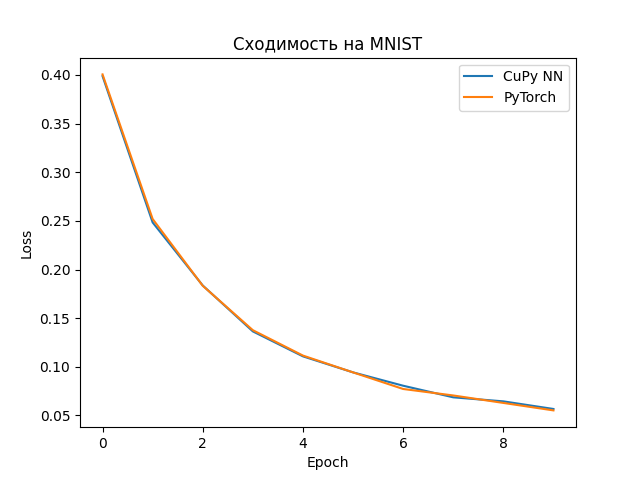
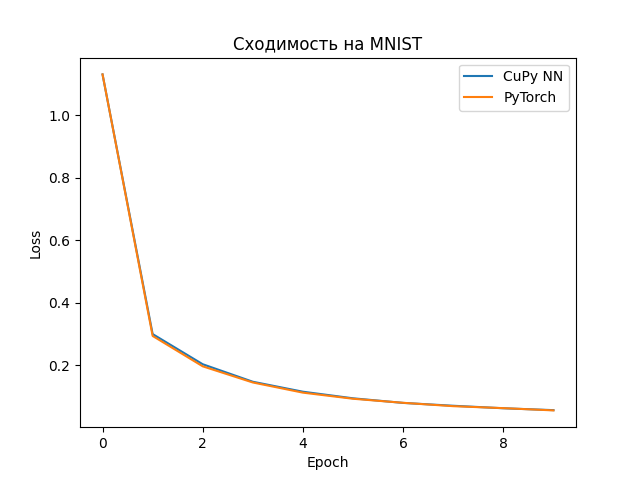
Снижен расход видеопамяти в early_stop и predict. Доработано логирование в train(). Добавлен маркерный класс MetaLayer. Исправлены небольшие баги.

diff --git a/neuralnet/core_gpu.py b/neuralnet/core_gpu.py
@@ -1,6 +1,6 @@
-from neuralnet.Loaders import AsyncCupyDataLoader
 from neuralnet.Features import *
-from neuralnet.Layers import Dense, Conv2D, MultiHead, ConvAttention, MultiConvAttentionWO
+from neuralnet.Layers import Dense, Conv2D, MultiHead, ConvAttention, MultiConvAttentionWO, MetaLayer
+from neuralnet.Loaders import AsyncCupyDataLoader
 from neuralnet.Optimizers import SGD
 
 
@@ -22,7 +22,7 @@ class NeuralNetwork:
         self.loss_func = loss_func
         self.optimizer = optimizer
         self.stream_load = cp.cuda.Stream(non_blocking=True)
-        self.losses = []
+        self.losses = {"train": [], "test": []}
 
         prev_layer = None
         first_config = layer_configs[0]
@@ -41,7 +41,7 @@ class NeuralNetwork:
                         raise ValueError(
                             "Если после Dense следует Conv2d, то Conv2d нужно передать нужную форму тензора")
 
-            if layer_cls in [MultiHead, ConvAttention, MultiConvAttentionWO]:
+            if issubclass(layer_cls, MetaLayer):
                 config["nn_class"] = NeuralNetwork
                 config["optimizer"] = self.optimizer
 
@@ -63,7 +63,7 @@ class NeuralNetwork:
             self.layer_list.append(layer)
             prev_layer = layer
 
-    def train(self, train_loader, epochs=30, early_stop=0, x_test=None, y_test=None, min_delta=1e-3,
+    def train(self, train_loader, epochs=30, early_stop=0, test_loader=None, min_delta=1e-3,
               logs=True, early_target="loss_func"):
         """
         Обучение модели.
@@ -73,8 +73,7 @@ class NeuralNetwork:
             epochs (int, optional): число эпох обучения.
             early_stop (int, optional): количество эпох без улучшения,
                 после которых обучение останавливается. Если 0 — отключено.
-            x_test (np.ndarray, optional): валидационные данные X для ранней остановки.
-            y_test (np.ndarray | list, optional): валидационные метки.
+            test_loader (iterable): генератор тестовых батчей (x, y).
             min_delta (float, optional): минимальное улучшение метрики для сброса patience.
             logs (bool, optional): печатать ли прогресс по эпохам.
             early_target (str | callable | list, optional):
@@ -86,20 +85,11 @@ class NeuralNetwork:
             иначе None.
         """
 
-        if early_stop and (x_test is None or y_test is None):
-            raise ValueError("Для ранней остановки нужны x_test и y_test")
+        if early_stop and (test_loader is None):
+            raise ValueError("Для ранней остановки нужен test_loader")
 
         if early_target == "loss_func":
             early_target = self.loss_func
-
-        if x_test is not None:
-
-            x_test = AsyncCupyDataLoader(np.asarray(x_test, dtype=cp.float32), batch_size=train_loader.batch_size,
-                                         shuffle=False, stream=train_loader.stream)
-            if isinstance(early_target, list):
-                y_test = [cp.asarray(arr, dtype=cp.float32) for arr in y_test]
-            else:
-                y_test = cp.asarray(y_test, dtype=cp.float32)
 
         best_loss = float('inf')
         min_delta = cp.asarray(min_delta, dtype=cp.float32)
@@ -109,32 +99,58 @@ class NeuralNetwork:
         val_loss = best_loss
 
         for epoch in range(1, epochs + 1):
+            losses = []
+            total_samples = 0
             for bx, by in train_loader:
+
                 y_hat = self.forward(bx, train=True)
 
+                total_samples += bx.shape[0]
+
                 if isinstance(self.loss_func, list):
-                    loss_grad = []
+                    loss_grads = []
+                    head_loss = []
                     for i, loss_func in enumerate(self.loss_func):
-                        loss = loss_func.grad(y_hat[i], by[i])
-                        loss_grad.append(loss)
+                        loss_grad = loss_func.grad(y_hat[i], by[i])
+                        loss_grads.append(loss_grad)
+                        if logs:
+                            head_loss.append(loss_func(y_hat[i], by[i]) * cp.asarray(by[i].shape[0], cp.float32))
+
+                    if logs:
+                        losses.append(head_loss)
                 else:
-                    loss_grad = self.loss_func.grad(y_hat, by)
-                self.backward(loss_grad)
+                    loss_grads = self.loss_func.grad(y_hat, by)
+                    if logs:
+                        losses.append(self.loss_func(y_hat, by) * cp.asarray(by.shape[0], cp.float32))
+
+                self.backward(loss_grads)
+
             # Early stopping — после всей эпохи
             if early_stop:
-                y_val_pred = self.predict(x_test, numpy=False)
+                total_test_samples = 0
+                test_losses = []
+                for tbx, tby in test_loader:
+                    y_val_pred = self.forward(tbx, train=False)
 
-                # поддержка single, list
-                if isinstance(early_target, list):
-                    val_losses = []
-                    for i, loss_func in enumerate(early_target):
-                        val_losses.append(loss_func(y_val_pred[i], y_test[i]))
-                    val_loss = sum(val_losses)
-                else:
-                    val_loss = early_target(y_val_pred, y_test)
+                    total_test_samples += tbx.shape[0]
 
-                del y_val_pred
-                self.losses.append(val_loss)
+                    # поддержка single, list
+                    if isinstance(early_target, list):
+                        head_test_loss = []
+                        for i, loss_func in enumerate(early_target):
+                            test_loss = loss_func(y_val_pred[i], tby[i])
+                            if logs:
+                                head_test_loss.append(test_loss * cp.asarray(tby[i].shape[0], cp.float32))
+
+                        if logs:
+                            test_losses.append(head_test_loss)
+                    else:
+                        test_loss = early_target(y_val_pred, tby)
+                        if logs:
+                            test_losses.append(test_loss * cp.asarray(tby.shape[0], cp.float32))
+
+                test_epoch_loss = cp.asarray(test_losses).sum(axis=0).get() / total_test_samples
+                val_loss = test_epoch_loss.mean()  # Усредняем, чтобы можно было сравнить с другими эпохами
 
                 if cp.isnan(val_loss):
                     print(f"Model unstable at epoch {epoch}. Best val loss: {best_loss:.6f} at epoch {best_epoch}")
@@ -153,7 +169,11 @@ class NeuralNetwork:
                     return best_model
 
             if logs:
-                print(f"Epoch: {epoch}, Metric: {val_loss:.6f}, Best_val_metric: {best_loss:.6f}")
+                if early_stop:
+                    self.losses["test"].append(test_epoch_loss)
+                self.losses["train"].append((cp.asarray(losses).sum(axis=0).get() / total_samples))
+                print(f"Epoch: {epoch}, Loss: {self.losses["train"][-1].mean():.6f}, Test_Metric: {val_loss:.6f},"
+                      f" Best_test_metric: {best_loss:.6f}")
 
         return best_model
 
@@ -180,18 +200,21 @@ class NeuralNetwork:
             y_hat = self.forward(xb, train=False)
             if isinstance(self.loss_func, list):
                 for i, z in enumerate(y_hat):
+                    if numpy:
+                        z = z.get()
                     predictions[i].append(z)
             else:
+                if numpy:
+                    y_hat = y_hat.get()
                 predictions.append(y_hat)
 
         if isinstance(self.loss_func, list):
             predictions = [
-                cp.concatenate(p, axis=0).get() if numpy else cp.concatenate(p, axis=0)
+                np.concatenate(p, axis=0) if numpy else cp.concatenate(p, axis=0)
                 for p in predictions
             ]
         else:
-            predictions = cp.concatenate(predictions, axis=0)
-            predictions = predictions.get() if numpy else predictions
+            predictions = np.concatenate(predictions, axis=0) if numpy else cp.concatenate(predictions, axis=0)
         return predictions
 
     def forward(self, x, train=False):

diff --git a/examples/compare_pytorch.py b/examples/compare_pytorch.py
@@ -58,21 +58,19 @@ def check_vram():
 def train_torch(torch_loader):
     losses_torch = []
     for epoch in range(10):
+        total_samples = 0
+        loss_sum = 0
         for xb, yb in torch_loader:
             xb, yb = xb.cuda(), yb.cuda()
             optimizer.zero_grad()
             out = torch_model(xb)
             loss = criterion(out, yb)
+            loss_sum += loss.cpu().detach().numpy()*xb.shape[0]
+            total_samples += xb.shape[0]
             loss.backward()
             optimizer.step()
 
-        torch_model.eval()
-        with torch.no_grad():
-            # predict на всех данных
-            all_out = torch_model(torch.from_numpy(x_train.reshape(-1, 1, 28, 28)).cuda())
-            full_loss = criterion(all_out, torch.from_numpy(y_train).cuda())
-            losses_torch.append(full_loss.item())
-        torch_model.train()
+        losses_torch.append(loss_sum/total_samples)
     return losses_torch
 
 
@@ -81,13 +79,13 @@ torch_model = TorchCNN().cuda()
 x_train = (np.load("images.npy") / 255).astype(np.float32)
 y_train = np.load("labels.npy")
 # мой DataLoader
-train_loader = AsyncCupyDataLoader(x_train, y_train, batch_size=1000)
+train_loader = AsyncCupyDataLoader(x_train, y_train, batch_size=1024)
 
 # pytorch DataLoader
 torch_loader = DataLoader(TensorDataset(
     torch.from_numpy(x_train.reshape(-1, 1, 28, 28)),
     torch.from_numpy(y_train)
-), batch_size=1000, shuffle=True)
+), batch_size=1024, shuffle=True)
 
 # ---------- NeuralNetwork (моя реализация) ----------
 w1 = torch_model.conv1.weight.detach().cpu().numpy()
@@ -118,13 +116,12 @@ model = NeuralNetwork(configs, loss_func=CCELogits(), optimizer=Adam())
 used_mem = check_vram()
 
 t0 = time.perf_counter()
-model.train(train_loader, epochs=10, early_stop=10, x_test=x_train, y_test=y_train, logs=True)
+model.train(train_loader, epochs=10, logs=True)
 t_mine = time.perf_counter() - t0
 
 used_mem_net = check_vram()
 
-losses_mine = model.losses
-losses_mine = [loss.get() for loss in losses_mine]
+losses_mine = model.losses["train"]
 print(f"Использовано Cupy NN vram: {used_mem_net - used_mem:.2f} GB")
 # ---------- PyTorch ----------
 
@@ -172,3 +169,5 @@ t_backward_torch = time.perf_counter() - t1
 print(
     f"Forward+Backward (1 sample) - CuPy NN forward & backward: {t_forward_mine:.5f}s,  {t_backward_mine:.5f}s |"
     f" PyTorch: {t_forward_torch:.5f}s,  {t_backward_torch:.5f}s")
+
+

diff --git a/neuralnet/Layers.py b/neuralnet/Layers.py
@@ -19,6 +19,13 @@ class Layer:
         pass
 
 
+class MetaLayer(Layer):
+    """
+    Маркерный класс для слоёв, которые содержат вложенные подмодули.
+    """
+    pass
+
+
 class Conv2D(Layer):
     def __init__(self, out_channels, input_dim, kernel_size=(3, 3), init_dict=None, trainable=True,
                  learn_params=None, prev=None, w=None, bias=None, input_need_shape=None, **kwargs):
@@ -132,6 +139,9 @@ class Dense(Layer):
 
         if not isinstance(init_dict, dict):
             self.init_dict = {"init_cls": KaimingUniform}
+        else:
+            self.init_dict = init_dict
+
         self.init_cls = self.init_dict["init_cls"](**self.init_dict)
 
         if isinstance(learn_params, dict):
@@ -212,7 +222,7 @@ class Dense(Layer):
         return dicti
 
 
-class MultiHead(Layer):
+class MultiHead(MetaLayer):
     def __init__(self, input_dim, heads, nn_class, optimizer, prev, concat_axis=False, **kwargs):
         init_heads = []
 
@@ -484,7 +494,7 @@ class SelfAttention(Layer):
         return dicti
 
 
-class ConvAttention(Layer):
+class ConvAttention(MetaLayer):
     def __init__(self, input_dim, nn_class, optimizer, prev=None, input_need_shape=None, reduction=2, inner=None,
                  agg_mode="GAP+GMP", learn_params=None, forward_weight=False, mode="Channel", kernel_size=(7, 7),
                  trainable=True, **kwargs):
@@ -622,7 +632,7 @@ class ConvAttention(Layer):
         return dicti
 
 
-class MultiConvAttentionWO(Layer):
+class MultiConvAttentionWO(MetaLayer):
     def __init__(self, input_dim, nn_class, optimizer, d_need_head, learn_params=None, trainable=True, prev=None,
                  input_need_shape=None, kernel_size=(1, 1), mode="Channel", inner=None, **kwargs):
 

diff --git a/README.md b/README.md
@@ -1,7 +1,27 @@
 ## О библиотеке
 
 Простая нейросетевая библиотека на CuPy для создания и обучения CNN, Dense и других моделей. Основная цель — возможность
-экспериментов с кастомными слоями и обучение.
+экспериментов с кастомными слоями и обучением.
+
+Библиотека не использует autograd — обратное распространение реализовано вручную для каждого слоя.
+Фокус — на читаемости, понятных правилах хранения промежуточных тензоров, и возможности вмешаться в процесс обучения.
+
+Изначально проект начинался как набор «ручных» реализаций слоёв (Conv2D, Attention, Dense и т.д.) для лучшего понимания того, как они работают внутри.
+Со временем этот набор вырос до полноценной мини-библиотеки, где можно:
+
+- экспериментировать с кастомными слоями,
+
+- менять устройство backpropagation,
+
+- изучать работу CNN/Attention «на уровне матриц»,
+
+- тестировать собственные архитектуры без магии автоградов.
+
+Цель проекта — дать понятный, прозрачный и полностью контролируемый инструментарий, напоминающий PyTorch по духу, но гораздо проще и ближе к низкоуровневой логике.
+
+Хотя библиотека изначально создавалась как учебно-экспериментальная, она уже была протестирована в реальном проекте: [ссылка на репозиторий](https://github.com/Delisseu/Stack)  
+
+Библиотека подходит тем, кто хочет разобраться «как это работает внутри», а не просто использовать готовые блоки.
 
 ## Сравнение с PyTorch
 
@@ -10,11 +30,11 @@
 **Результаты:**
 
 - Использовано VRAM (GPU):
-    - CuPy NN: **0.61 GB**
-    - PyTorch: **3.21 GB**
+    - CuPy NN: **0.59 GB**
+    - PyTorch: **0.23 GB**
 - Время обучения (10 эпох):
-    - CuPy NN: **15.60 s**
-    - PyTorch: **9.65 s**
+    - CuPy NN: **13.5 s**
+    - PyTorch: **8.8 s**
 - Forward + Backward (1 sample):
     - CuPy NN: forward **0.00222 s**, backward **0.01688 s**
     - PyTorch: forward **0.00411 s**, backward **0.00903 s**
@@ -27,8 +47,7 @@
 
 - Обе реализации показывают **одинаковую тенденцию сходимости**.
 - PyTorch ожидаемо быстрее на backward, за счёт высоко оптимизированных CUDA-ядер.
-- Кастомная реализация экономит VRAM, что делает ее более масштабируемой, где разница в скорости стремится к нулю.
-
+- Потери VRAM связаны с тем, что библиотека сохраняет больше временных матриц для backprop, поскольку не использует оптимизации cudnn/cutlass.
 ---
 
 ## Особенности реализации
@@ -40,8 +59,7 @@
       Это **не влияет на сходимость**, а при корректном `reshape` обе реализации совпадают.
 
 2. **Ускорение через flatten в conv2d:** при умножении патчей на kernels используется `flatten (B*H*W, kh*kW*C)` →
-   матричные умножения
-   работают быстрее. Так же веса в conv2d хранятся в транспонированном виде.
+   матричные умножения работают быстрее. Веса в conv2d хранятся в транспонированном виде.
 
 3. **Train vs Inference:**
     - `train=True` → сохраняются матрицы для backprop.
@@ -49,12 +67,12 @@
       ⚠ Поэтому после `forward(train=False)` нельзя вызывать `backward`.
 
 4. **MultiConvAttention:**  
-   Является чисто экспериментом.
+   Является экспериментальным слоем.
 5. **Schedulers:**  
-   Оптимизаторы поддерживают расписания обучения (`InverseSqrtScheduler`, модификации и др.).
+   Оптимизаторы поддерживают расписания обучения (`InverseSqrtScheduler`, модификации и пр.).
 6. **Автоматическая инициализация:**  
    Основной класс `NeuralNetwork` сам подбирает корректные входные параметры для слоёв (в большинстве случаев), поэтому
-   нет нужды на каждом слою прописывать `input_dim`, кроме первого.
+   нет нужды на каждом слою прописывать `input_dim`, кроме самого первого.
 
 ---
 
@@ -66,9 +84,9 @@
 4. Оптимизаторы: Adam, SGD.
 5. Нормализаторы: BatchNorm, LayerNorm.
 6. Schedulers: InverseSqrtScheduler, InverseSqrtSchedulerMod1, InverseSqrtSchedulerMod2.
-7. Инициализации: xavier_uniform, kaiming_uniform.
+7. Инициализации: Xavier_uniform, Kaiming_uniform.
 8. Загрузчики: DataLoader, AsyncCupyDataLoader.
-9. Другие возможности: Pooling, PatchExtractor, Padding, Dropout.
+9. Другие возможности: Pooling, PatchExtractor, Padding, Dropout, Aggregation.
 
 ---
 
